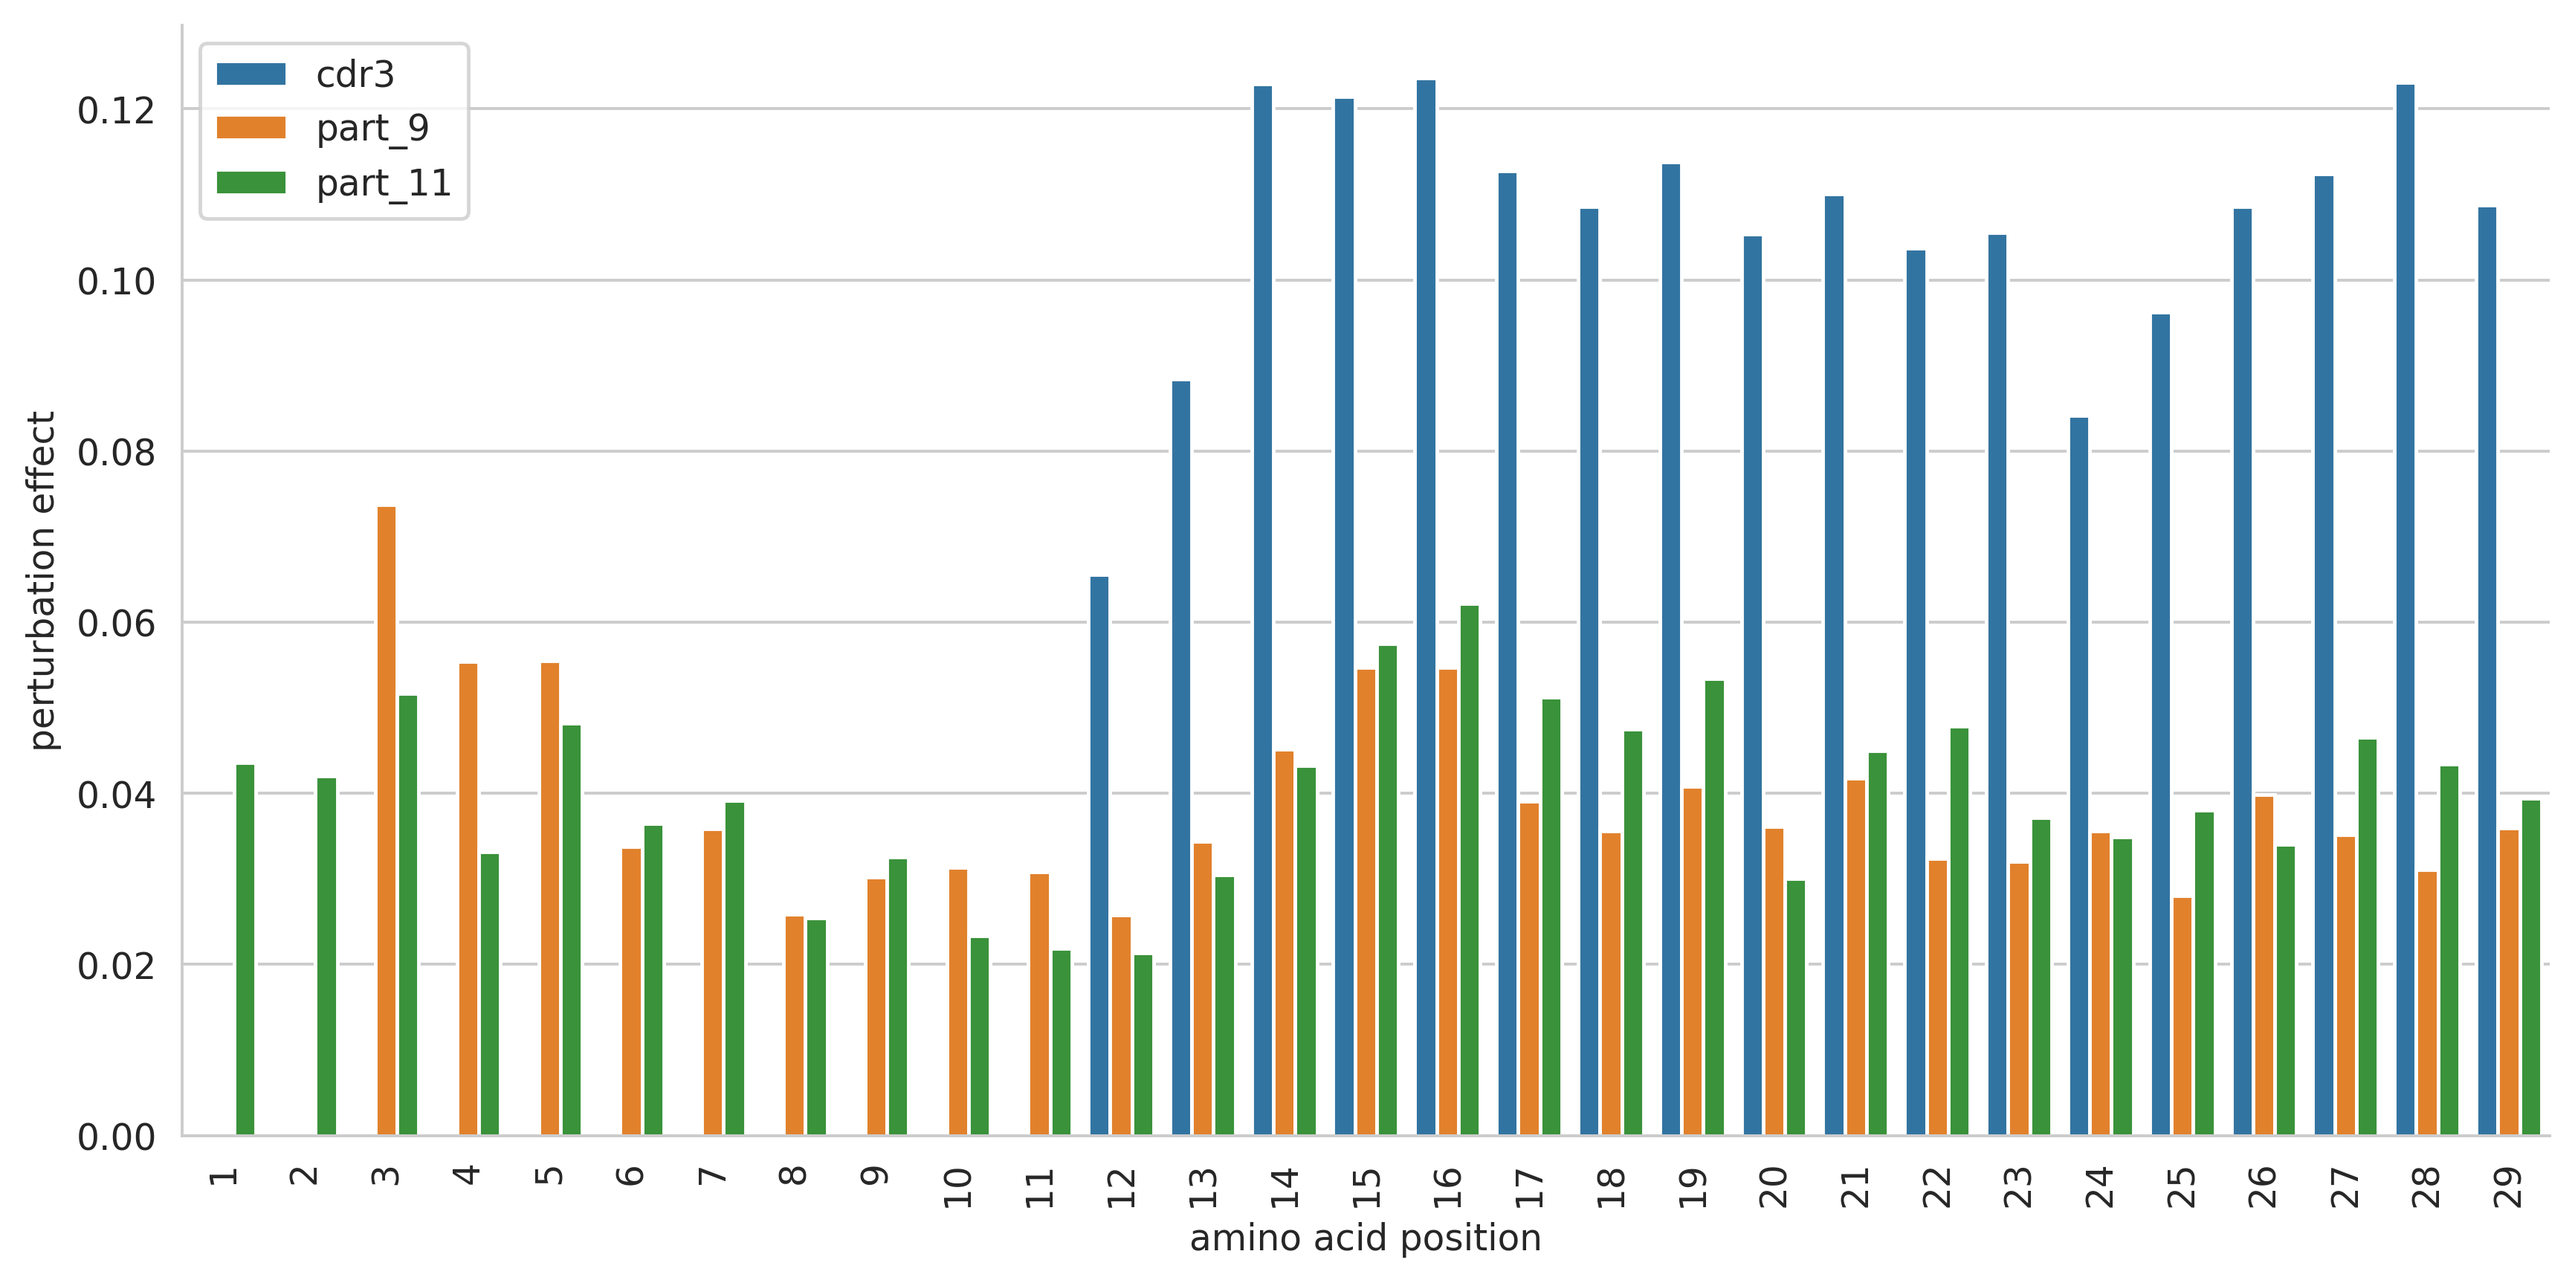
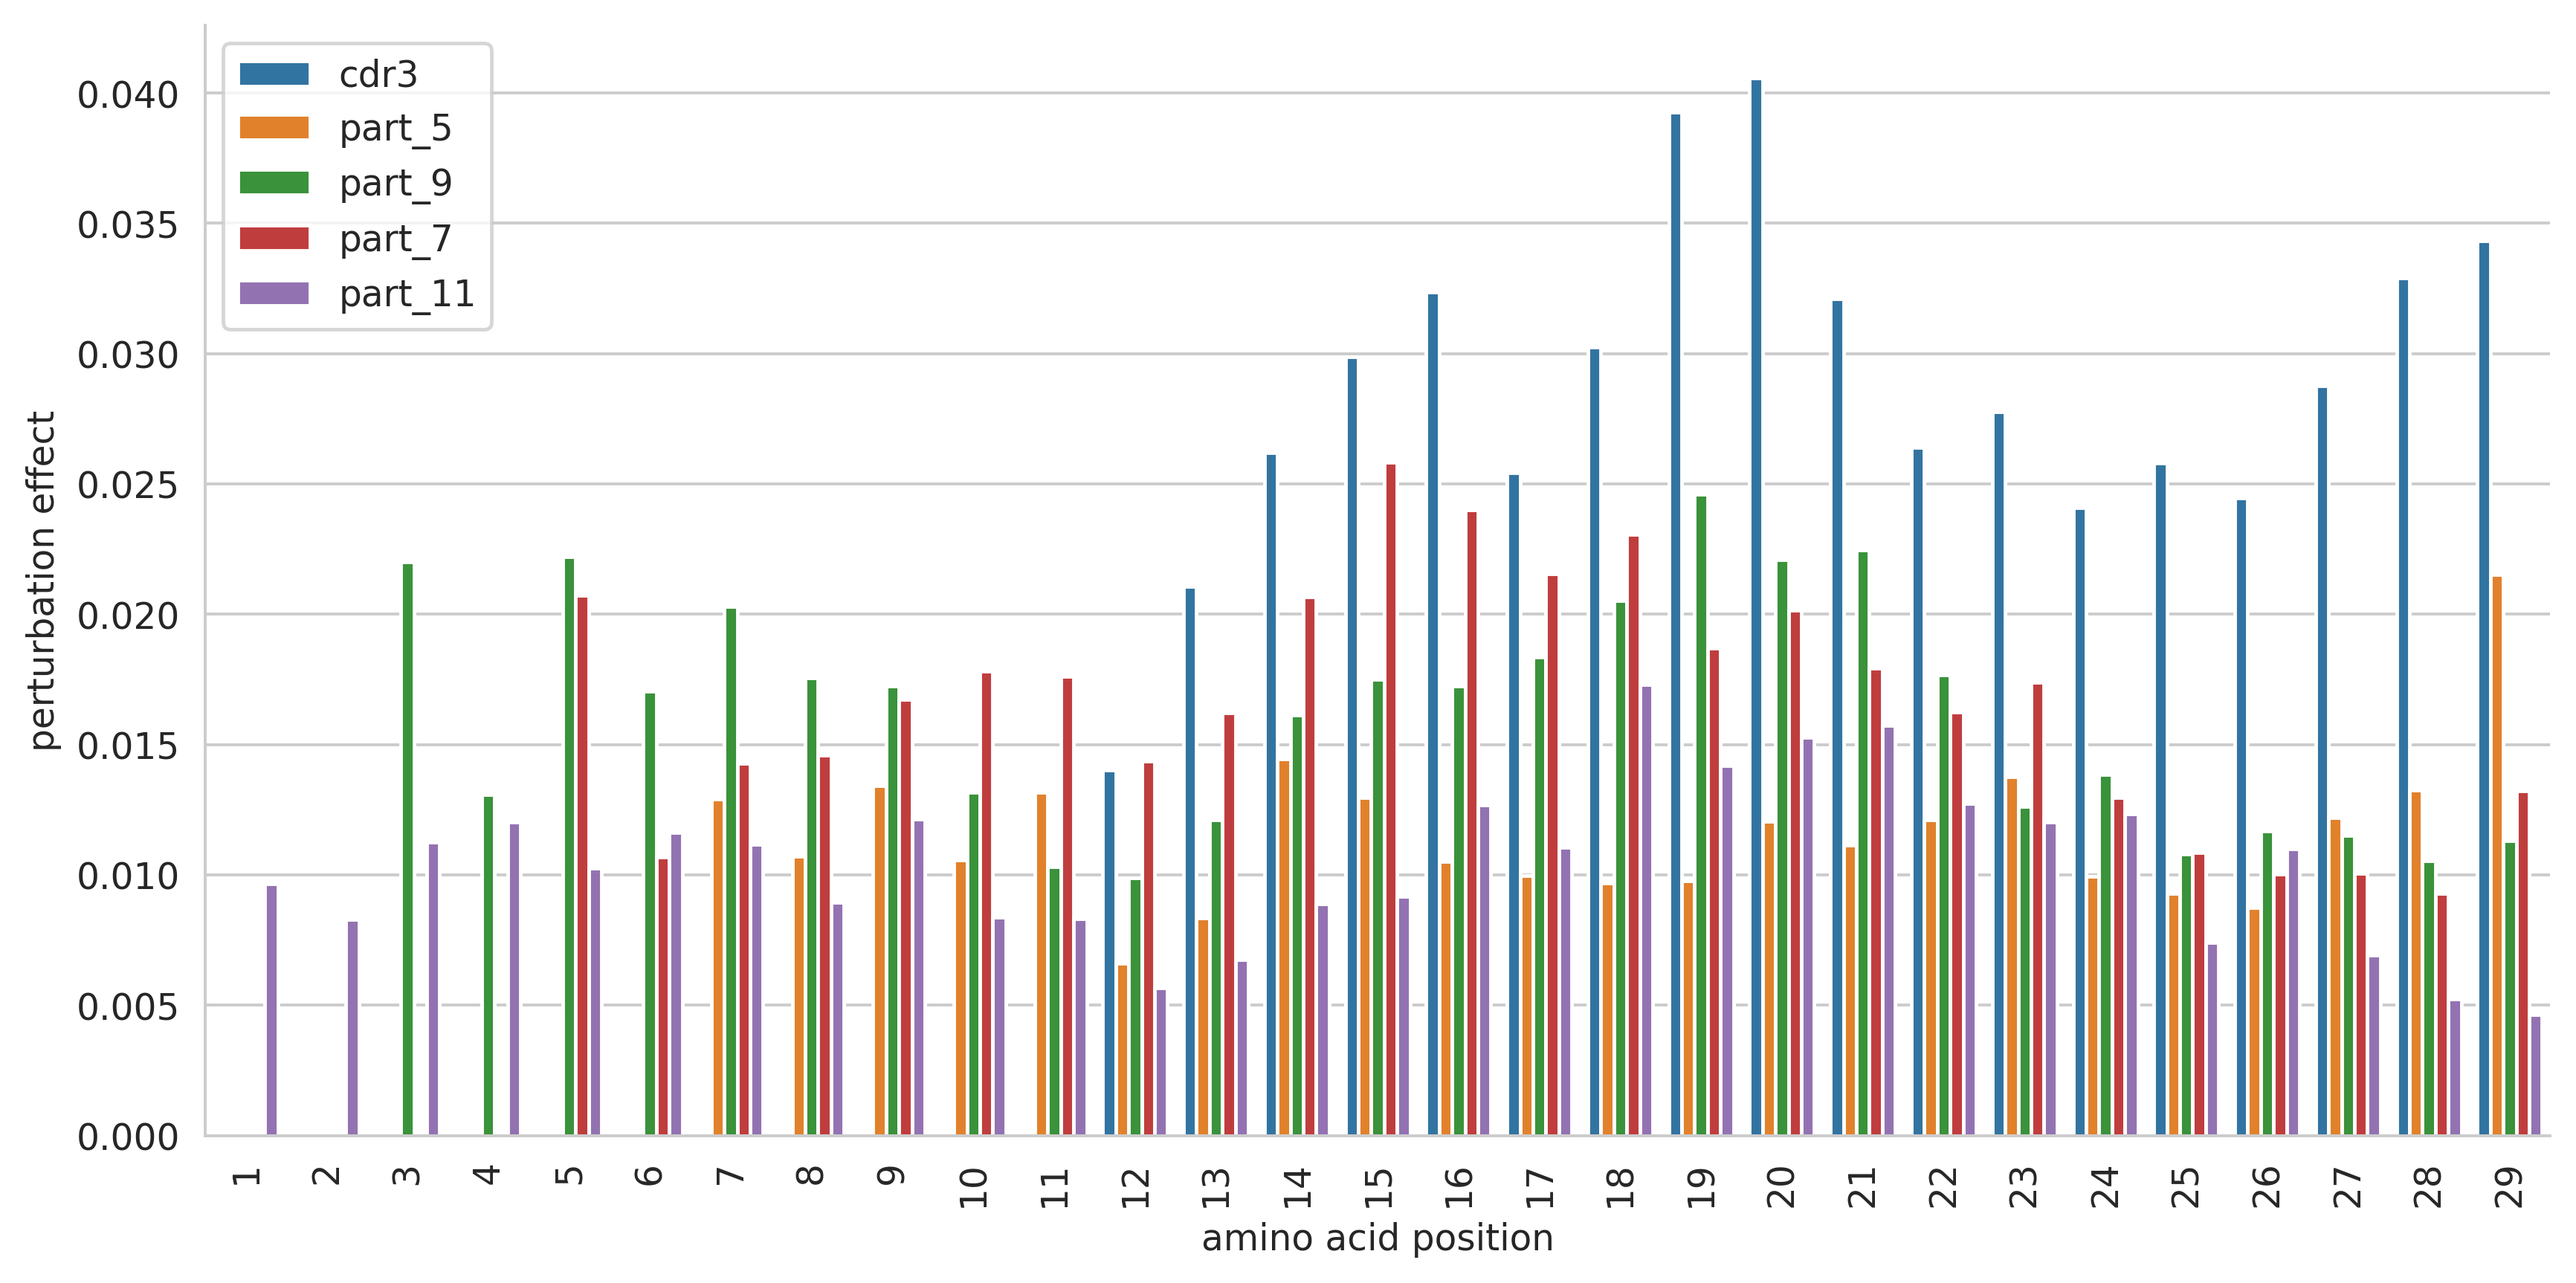
Updated perturbation effects analysis

diff --git a/tcrpair_secondvalidation.py b/tcrpair_secondvalidation.py
@@ -10,7 +10,7 @@ from modules import tcrpair_config, mlmodels, mldata, tcr_reconstruction
 def main():
 
 	# Load data
-	multichains_df = pd.read_csv(os.path.join(tcrpair_config.val_path, 'coexpr_tcrs.csv'))
+	multichains_df = pd.read_csv(os.path.join(tcrpair_config.val_path, 'secondvalidationdata.csv'))
 	# TCR reconstruction (uses VDJdb column names)
 	multichains_df = tcr_reconstruction.add_full_tcr_to_df(multichains_df, 'VDJdb', dropnanalleles=False)
 

diff --git a/perturbation_effects.py b/perturbation_effects.py
@@ -24,7 +24,7 @@ def var_importance(model, maxlen, x):
 def main():
 
 	enc = 'blosum62'
-	datasets = ['cdr3', 'part_9', 'part_11']
+	datasets = ['cdr3', 'part_5', 'part_9', 'part_7', 'part_11']
 	max_flank = 11
 
 	dn_df_list = list()
